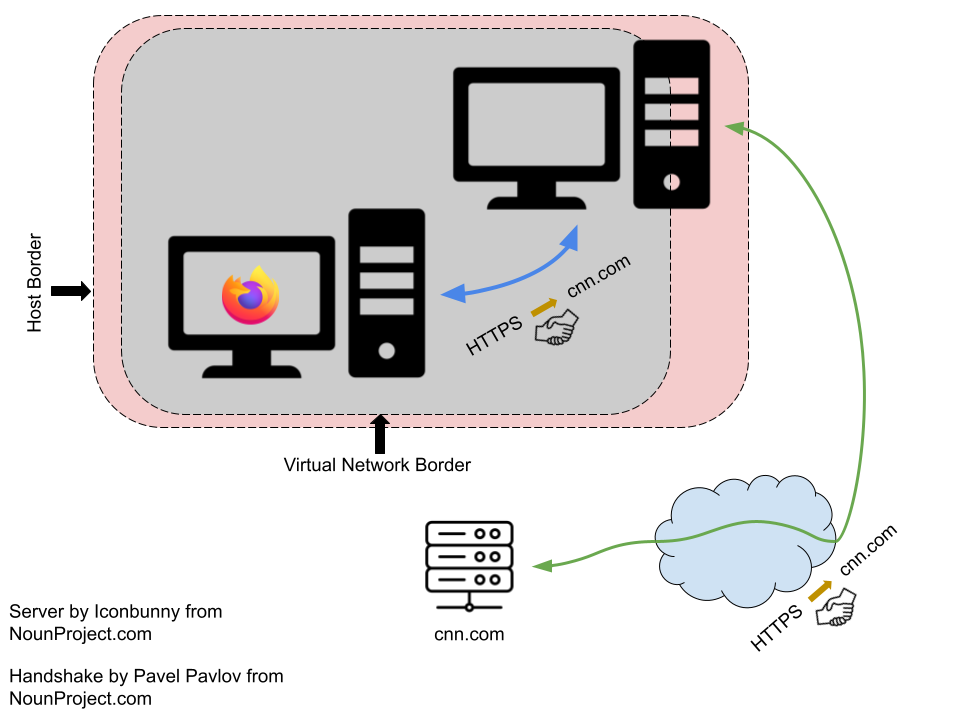
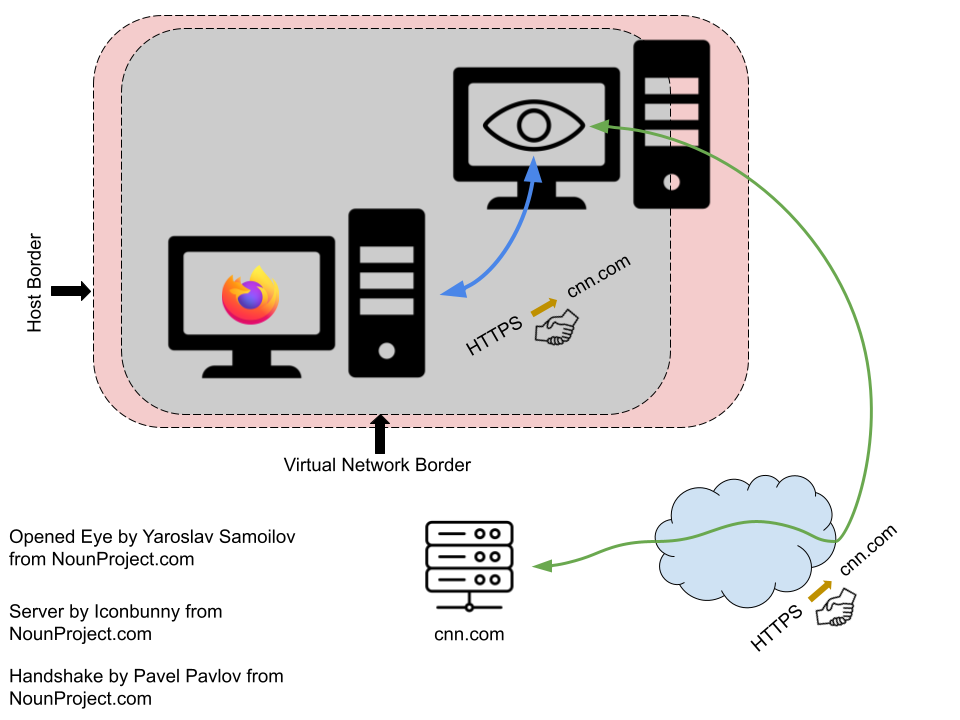
Update Secret Searcher Mini Assignment.

diff --git a/MiniAssignmentSecretSearcher/README.md b/MiniAssignmentSecretSearcher/README.md
@@ -1,45 +1,47 @@
 ## Malware Mini Assignment: Secret Searcher
 
-In this assignment you will use your newfound network analysis powers to analyze the network behavior of an unknown application named `secretsearcher`. Included in this Mini Assignment bundle is a copy of the binary. `secretsearcher` has landed on your network thanks to a zero-day vulnerability. Your threat intelligence analysts have told you that the application performs some type of web search but they couldn't figure out which search engine it uses (Google, Bing, Duck Duck Go, etc.) nor could they figure out the query that it makes.
+In this assignment you will use your newfound network analysis powers to analyze the network behavior of an unknown application named `secretsearcher`. The copy of the malware that your threat intelligence team has isolated is included in this folder. Your team has captured two versions -- one that works on the x86 platform (`secretsearcher`) and one that works on the ARM platform (`secretsearchera`). I will refer to both `secretsearcher` and `secretsearchera` as simply `secretsearcher`, but if you are doing your analysis on an ARM-based platform, you should always use `secretsearchera` and *not* `secretsearcher`. 
 
-What the other analysts do know is that the query is a canary that triggers some malicious behavior in the search engine and allows the binary to steal the user's search history and cookies -- information that the binary then uses to harvest saved passwords.
+`secretsearcher` has landed on your network thanks to a zero-day vulnerability. Your threat intelligence analysts have told you that the application performs some type of web search but they couldn't figure out which search engine it uses (Google, Bing, Duck Duck Go, etc.). Nor could they figure out the query that it makes on the search engine.
 
-You must get to the bottom of the situation quickly or millions of users will have their TikTok memes rick-rolled.
+What your intelligence analysts do know is that the query is a type of [digital canary](https://en.wikipedia.org/wiki/Warrant_canary) that also has operational effects: it triggers some malicious behavior in the search engine and allows the binary to steal the user's search history and cookies -- information that the binary then uses to harvest saved passwords.
+
+You must get to the bottom of the situation quickly or millions of users will have their TikTok memes [rick-rolled](https://www.youtube.com/watch?v=dQw4w9WgXcQ).
 
 ### Before you begin ...
 
-Before you begin, make sure that you have your analysis environment configured properly. Follow the instructions online at [TODO](http://www.todo.com).
+Every good scientist needs a lab. Before you begin, make sure that you have your analysis lab configured properly. Follow the instructions online [here](https://github.com/hawkinsw/CS5138/blob/main/NetworkLabConfiguration/LabConfiguration.md).
 
-For the remainder of the document, we will use the same language that we did in the document that described the lab configuration. In other words, we will refer to the lab's VirtualBox-based virtual network simply as the _virtual network_. We will refer to the guest running the Kali distribution of the Linux operating system as the _Kali VM_. We will refer to the guest running the Ubuntu distribution of the Linux operating system as the _analysis VM_ (because it would be where you will be doing malware analysis.)
+For the remainder of the document, we will use the same language that we did in the configuration document. We will refer to the lab's VirtualBox-based virtual network simply as the _virtual network_. We will refer to the guest running the Kali distribution of the Linux operating system as the _Kali VM_. We will refer to the guest running the Ubuntu distribution of the Linux operating system as the _analysis VM_ (because it is where you will be doing the malware analysis.)
 
 ### Step 1: Start at the beginning
 
 Throughout the semester our analysis skills have grown sharper. We started by doing some basic static analysis. Then we did some basic dynamic analysis. Most recently, we have learned how to combine dynamic analysis with network analysis. 
 
-When doing analysis, it is always a good idea to try the easiest tools first. Perhaps it is possible to suss out the name of the search engine and the query contents just by looking at the contents of the binary. If we could do that, our analysis would be much safer (we would never be forced to execute the potentially malicious program) and quicker (no need to set up a lab environment!).
+When doing analysis, it is always a good idea to try the easiest tools first. Perhaps it is possible to suss out the name of the search engine and the query contents just by looking at the binary statically. If we could do that, our analysis would be much safer (we would never have to execute the potentially malicious program) and quicker (no need to set up a lab environment!).
 
-Using `strings` (or any other tool at your disposal), make and support the claim that we cannot answer the outstanding questions about `secretsearcher` posed in the introduction using only static analysis. Record this response in your `submission.txt` file for Question 1. 
+Using `strings` (or any other tool at your disposal), make and support the claim that we cannot answer the outstanding questions about `secretsearcher` posed in the introduction using only static analysis. Record your response in the `submission.txt` file under Question 1. 
 
 ### Step 2: Setting Ourselves Up For Success
 
-We know that `secretsearcher` makes a network connection to a search engine and issues a query. We will assume that the malware author is not stupid and that they perform the query over HTTPS and not plain HTTP. 
+We know that `secretsearcher` makes a network connection to a search engine and issues a query. We will assume that the malware author is not naive and that they perform the query over HTTPS and not plain HTTP.
 
 Or maybe not? Again, we should always check the easy things first. 
 
-Let's use Wireshark to validate that the `secretsearcher` malware does its query over HTTPS. How to do that? We will run Wireshark on our Kali VM and run `secretsearcher` on the analysis VM. 
+Let's use Wireshark to validate that the `secretsearcher` malware does its query over HTTPS. How to do that? We will run Wireshark on our Kali VM and run `secretsearcher` on the analysis VM and look at unencrypted HTTP traffic.
 
-Start up the Kali VM and the analysis VM. Use the helper scripts to configure the Kali VM as a router. Make sure that you can access the Internet from the analysis VM. 
+Start up the Kali VM and the analysis VM. Use the helper scripts to configure the Kali VM as a router. Make sure that you can access the Internet from the analysis VM. If you need a reminder on how to do any these steps, see the [configuration guide](https://github.com/hawkinsw/CS5138/blob/main/NetworkLabConfiguration/LabConfiguration.md).
 
 On the Kali VM, start up Wireshark and begin monitoring traffic on the network interface attached to the virtual network. Apply a filter so that you only see HTTP traffic. _Hint_: Like we could use `icmp` as a filter for ICMP traffic in Wireshark, we can use `http` as a filter in Wireshark for HTTP traffic. 
 
 Validate that Wireshark, your Kali VM and the analysis VM are all doing "the right thing" by completing this simple test:
 
-1. Open a terminal on the analysis VM and do a `wget` for cnn.com: `$ wget http://www.cnn.com`.
+1. Open a terminal on the analysis VM and do a `wget` for `cnn.com`: `$ wget http://www.cnn.com`.
 2. Verify that Wireshark (on the Kali VM) shows two HTTP packets.
 
-In `submission.txt`, as the response for Question 2, report the [HTTP methods](https://www.rfc-editor.org/rfc/rfc7231) that are in the two packets *and* the IP address of packet addressed from the analysis VM. 
+In `submission.txt`, as the response for Question 2, report the [HTTP methods](https://www.rfc-editor.org/rfc/rfc7231) that are in the two packets *and* the destination IP address of the packet addressed from the analysis VM. 
 
-Now that we know we *can* see traffic if it exists, let's run the `secretsearcher` and see if there is any unencrypted HTTP traffic:
+Now that we know we *can* see HTTP traffic if it exists, let's run `secretsearcher` and see if there is any unencrypted HTTP traffic:
 
 1. Open a terminal on the analysis VM and run `secretsearcher`: `$ ./secretsearcher`.
 2. Verify that Wireshark shows no HTTP packets.
@@ -48,41 +50,52 @@ Take a screen shot of Wireshark showing that there was no HTTP traffic generated
 
 ### Foiled!
 
-Our job just got significantly harder. We have shown that basic static analysis won't get the job done. We've also show that our first attempt at using network analysis was unhelpful. Looks like we are going to have to turn our analysis up to 11.
+Our job just got significantly harder. We have shown that basic static analysis won't get the job done. We've also show that our first attempt at using network analysis was unhelpful. Looks like we are going to have to turn our analysis [up to 11](https://www.youtube.com/watch?v=uMSV4OteqBE).
 
-We can deduce that `secretsearcher` is using HTTPS to communicate with the search engine and make its query. Unfortunately any HTTP connection that is secured using HTTPS means that the contents are secure against prying eyes snooping on the network between the client and the web server.
+We can deduce that `secretsearcher` is using HTTPS to communicate with the search engine and make its query. Unfortunately, securing HTTP connections with HTTPS means that the contents of the transmissions are secure against prying eyes snooping on the network between the client and the web server.
 
-In order to interfere, we will have to configure our Kali VM to intercept the HTTPS protocol in a way that allows us to inspect the traffic. 
+In order to interfere, we will have to configure our Kali VM to intercept the HTTPS protocol in a way that allows us to inspect the traffic.
 
 Is that possible?
 
 ### HTTPS Proxying
 
-![TODO](./images/HTTPSProxyConceptualIllustration.png)
+YES!! In fact, there are even tools to do it! But, before we get in to the nuts and bolts, let's take a step back and think about what is going on conceptually. In the process, we will refer to a client who is attempting to establish a secure connection with `cnn.com`.
 
-YES!! In fact, there are even tools to do it! But, before we get in to the nuts and bolts, let's take a step back and think about what is going on conceptually. 
+![A conceptual view of an HTTPS connection.](./images/HTTPSConceptualIllustration.png)
 
-HTTPS provides end-to-end security for HTTP connections. In other words, the client (typically a web browser) establishes a secure connection with the web server and all information transmitted over that connection is secure. The client contains a list of Certificate Authorities -- authenticators that they implicitly trust. When the client connects to a web server it uses that list of authorities to guarantee that the server to which it connected is legitimate. This is the opposite of what we normally think of in authentication. Normally it is the *client* proving to the server that they are legitimate. In HTTPS it is the other way around. 
+HTTPS provides end-to-end security for HTTP connections. In other words, the client (typically a web browser) establishes a secure connection with the web server and all information transmitted over that connection is secure. See the diagram above for a visualization of this type of a connection. 
 
-Getting around such a scheme is not easy. We'll do it in a series of steps and illustrate those steps by example of a client connecting to `cnn.com`. Before starting, we will install an _imposter_ Certificate Authority on the client server -- one that we control. This will give us the power to prove to the client that a server of our choosing is legitimate for any website. Next, we will configure a type of _proxy server_ that can make HTTPS connections to the Internet. With this configuration, we can do the following:
+The client contains a list of Certificate Authorities -- authenticators that they implicitly trust. These Certificate Authorities are big corporate enterprises with strict protocols in place for ensuring that they grant [legitimacy under only the strictest circumstances](https://www.verisign.com/en_US/website-presence/online/ssl-certificates/index.xhtml). When the client connects to a web server it uses that list of authorities to guarantee that the server to which it connected is legitimate. This is the opposite of what we normally think of in authentication. Normally it is the *client* proving to the *server* that they are legitimate. In HTTPS it is the other way around. For a more in-depth introduction to HTTPS, watch [this video](https://www.youtube.com/watch?v=d2GmcPYWm5k) or read the associated [FAQ](https://https.cio.gov/faq/).
 
-1. The client connects to `cnn.com`. 
+Note that in a *real* HTTPS connection there is only one (1) secure handshake -- between the client and the authoritative webserver. Based on the description above, we can enumerate the steps in a typical connection process:
+
+1. The client connects to `cnn.com`.
+2. The web server that is authoritative for `cnn.com` responds.
+3. The client checks its Certificate Authorities to ensure that the response was from the legitimate server.
+4. The client establishes an HTTPS connection.
+
+![A conceptual view of the components of an HTTPS proxying setup.](./images/HTTPSProxyConceptualIllustration.png)
+
+Getting around such a scheme is not easy. We'll do it in a series of steps. Before starting, we will install an _imposter_ Certificate Authority on the client server -- one that we control. This will give us the power to prove to the client that a server of our choosing is legitimate for any website. Next, we will configure a type of _proxy server_ that can make HTTPS connections to the Internet. With this configuration, the following is possible:
+
+1. The client attempts to connect to `cnn.com`.
 2. The proxy server responds with a guarantee to the client that *it* is the legitimate owner of `cnn.com`. 
 3. The client establishes an HTTPS connection *with the proxy server*. This connection is the first of two secure connections (indicated in blue in the figure above). 
 4. The proxy server, in turn, connects with the actual `cnn.com` web server. This is the second of two secure connections (indicated in green in the figure above). 
 5. The proxy server shuffles requests and responses between the client and `cnn.com` transparently. 
 
-Because the client thinks that proxy server is actually `cnn.com`, the proxy server can decrypt the contents of the client's transmissions. Because `cnn.com` thinks that proxy server is actually the client, the proxy server can decrypt `cnn.com`'s responses. Just what we wanted -- the ability to see the contents of both the clients and the server's data transmissions in plain text.
+Because the client thinks that proxy server is actually `cnn.com`, the proxy server can decrypt the contents of the client's transmissions. Because `cnn.com` thinks that proxy server is actually the client, the proxy server can decrypt `cnn.com`'s responses. Just what we wanted -- the ability to see the contents of both the client's and the server's data transmissions in plain text.
 
-Please note: HTTPS Proxying is also known as a man-in-the-middle (MITM) attack. For obvious reasons I will try to refrain from using this phrase but it _is_ the name of the software tool that we will use to actually deploy HTTP Proxying.
+Please note: HTTPS Proxying has both legitimate and illegitimate uses. They are oftentimes referred to using the same terminology: a man-in-the-middle (MITM) attack. For obvious reasons I will try to refrain from using this phrase but it _is_ the name of the software tool that we will use to actually deploy HTTP Proxying.
 
-### Configuring `mitmproxy`
+### Step 3: Configuring MITM Proxy
 
-`mitmproxy` is a tool installed by default in the Kali distribution that allows us to easily perform HTTP Proxying. The only problem is that the version installed is too old for our purposes. So, we will need to first upgrade the version on our Kali VM. 
+MITM Proxy is a tool installed by default in the Kali distribution that allows us to easily perform HTTP Proxying. The only problem is that the version installed is too old for our purposes. So, we will need to first upgrade the version on our Kali VM. 
 
-Start by downloading the updated version of the program from [mitmproxy.org](https://mitmproxy.org/). Place the downloaded file in the `~Downloads` directory. 
+Start by downloading the updated version of the program from [mitmproxy.org](https://mitmproxy.org/). Place the downloaded file in the `~Downloads/` directory. 
 
-Untar/zip the resulting program: 
+Untar/zip the file: 
 
 ```
 $ tar -xvzf mitmproxy-7.0.4-linux.tar.gz
@@ -111,11 +124,11 @@ Python:    3.9.7
 
 Copy and paste the output from that command in `submission.txt` as your response to Question 3.
 
-HTTPS connections operate on port 443. In order for our HTTPS proxy setup to work, we will have to tell the router (Kali VM) to intercept all the traffic that it routes and redirect it to `mitmproxy` so that it will work its magic. We will use `iptables` to do this redirection. 
+HTTPS connections operate on port 443. In order for our HTTPS proxy setup to work, we will have to tell the router (Kali VM) to intercept all the traffic that it sees coming in on port 443 and redirect it to MITM Proxy so that it will work its magic. We will use `iptables` to do this redirection. 
 
-The syntax is `iptables` is, well, fun, and you can research it on your own, if you like. However, I have provided you a script that will do the necessary configuration: `configure_as_mitm_proxy.sh` in this class' `git` repo under the `helpers/network` directory.
+The syntax of `iptables` is, well, fun, and you can [research](https://help.ubuntu.com/community/IptablesHowTo) it on your own, if you like. However, I have provided you a script that will do the necessary configuration: `configure_as_mitm_proxy.sh` in this class' `git` repo under the `helpers/network` directory.
 
-Besides configuring `iptables` properly, the helper script will also launch `mitmroxy`. 
+Besides configuring `iptables` properly, the helper script will also launch `mitmroxy`, the binary program for MITM Proxy. 
 
 ```
 $ sudo ./configure_as_mitm_proxy.sh
@@ -123,29 +136,31 @@ $ sudo ./configure_as_mitm_proxy.sh
 
 Your screen should look something like the image below.
 
-![TODO](./images/mitmproxyrunning.png)
+![The ncurses UI for MITM Proxy.](./images/mitmproxyrunning.png)
 
-Unfortunately, that's not quite all that we need to do. Fortunately, the final step is automated and already done for you in the `configure_as_mitm_proxy.sh` helper script. Nevertheless, you need to understand what is going on even if you don't need to do anything as a result.
+Unfortunately, that's not quite all that we need to do. Fortunately, the final step is automated and already done for you in the `configure_as_mitm_proxy.sh` helper script. Nevertheless, you need to understand what is going on even if you don't need to do anything as a result. (_Note_: The last sentence is a lie; read on to find out why!)
 
-We glossed over one important detail earlier when discussing the configuration. While `mitmproxy` is able to see the decrypted contents of the (heretofore) secure connection between client and server, anything snooping the network (i.e., Wireshark!!) cannot. Why? Because the transmissions that `mitmproxy` makes between itself and the real web server and itself and the client are both secure. However, instead of the real web server being in charge of that security, it's the proxy. 
+We glossed over one important detail earlier when discussing the configuration. While MITM Proxy is able to see the decrypted contents of the (heretofore) secure HTTPS connection between client and server, anything snooping the network (i.e., Wireshark!!) cannot. Why? Because the network transmissions (the only thing that a network snoop *can* see) that MITM Proxy makes between itself and the real web server and itself and the client are both pairwise secure. All we gained with our HTTPS Proxy setup is the ability for MITM Proxy to see the decrypted contents of the connection.
 
-`mitmproxy` offers a cool piece of functionality that allows it to interact with Wireshark so that Wireshark can decrypt the packets that it snoops from the network. If properly configured, `mitmproxy` will log all the [session keys](TODO) that it generates. 
+MITM Proxy offers a cool piece of functionality that allows it to interact with Wireshark so that Wireshark can decrypt the packets that it snoops from the network. If properly configured, MITM Proxy will log all the [session keys](https://www.cloudflare.com/learning/ssl/what-is-a-session-key/) that it generates. 
 
-In turn, we can configure Wireshark to read that log file! Let's do that now. Wait!! Didn't I just say that we didn't have to do anything else? Yes, but I lied. 
+In turn, we can configure Wireshark to read that log file and (in real time, mind you!) decrypt the packets that it captures from the network. 
+
+Let's do that now. Wait!! Didn't I just say that we didn't have to do anything else? Yes, but I lied. 
 
 In Wireshark, open up the Preferences (shown in red in the figure below).
 
-![TODO](./images/kaliwiresharkpreferences.png)
+![Open the Wireshark Preferences.](./images/kaliwiresharkpreferences.png)
 
 Next, click on Protocols and find the TLS protocol settings. You should see a screen that looks like the one in the image below.
 
-![TODO](./images/kaliwiresharkpreferencestlspng.png)
+![Wireshark TLS protocol configuration preferences.](./images/kaliwiresharkpreferencestlspng.png)
 
-Click on the `Browse` button under the `(Pre)-Master-Secret log filename` box. Browse to `/home/kali/` and select `keyfile.txt`. Press OK. Now that you have completed this step, you will *have to* restart Wireshark. 
+Click on the `Browse` button under the `(Pre)-Master-Secret log filename` box. Browse to `/home/kali/` and select `keyfile.txt`. Press `OK`. Now that you have completed this step, you will *have to* restart Wireshark. 
 
-And now, I promise this time!, the HTTP proxy is configured! Congratulations!!
+And now, I promise this time!, the HTTPS Proxy is configured! Congratulations!!
 
-### Configuring the Analysis VM
+### Step 4: Configuring the Analysis VM
 
 Remember that we will also need to tell the client about our setup, too, so that it trusts the secrets offered by the proxy server. The good news is that `mitmproxy` makes this relatively straightforward.
 
